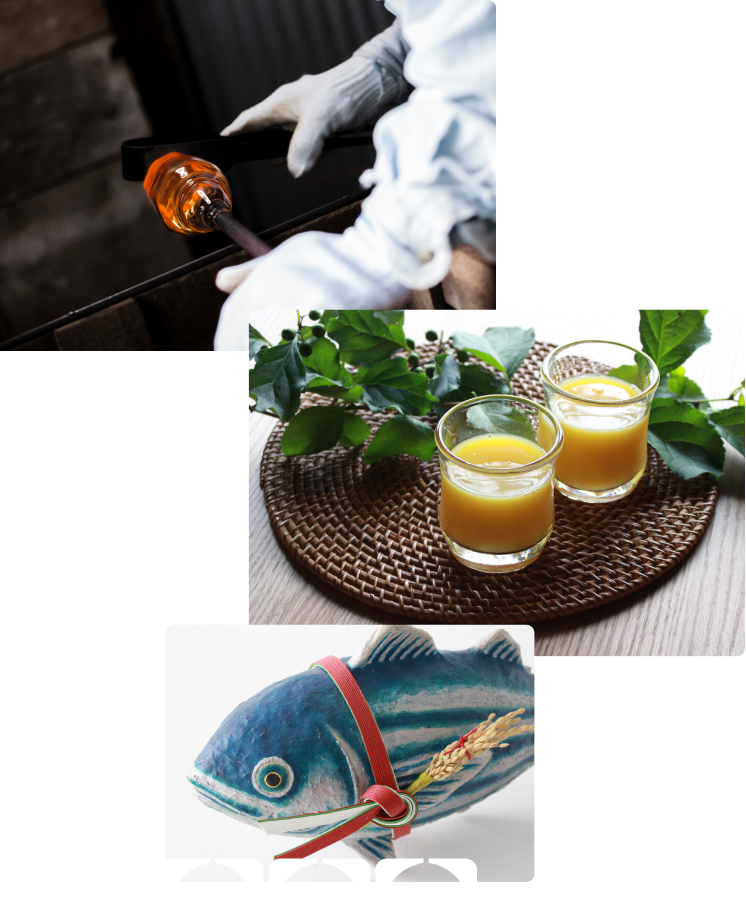
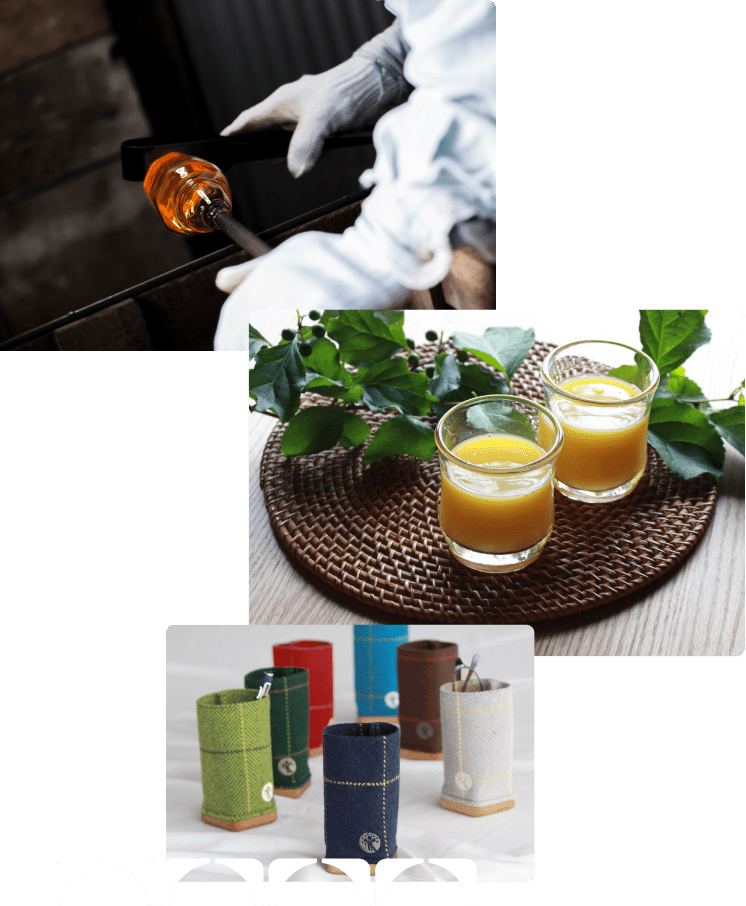
Update

Changed region(s): [[0.2158, 0.6799, 0.7399, 0.989]]

diff --git a/styles/scss/style.scss b/styles/scss/style.scss
@@ -827,6 +827,83 @@ a{
                 }
             }
         }
+        .box-hidacolle_note{
+            margin: 100px 0 0;
+            padding: 100px 0;
+            width: 100%;
+            background-color: c(nc,g2);
+            box-sizing: border-box;
+            .layout-hidacolle_note{
+                margin: 0 auto;
+                width: $mainWidth_sp;
+                .heading-hidacolle_note{
+                    margin: 0;
+                    width: 100%;
+                    .heading-title-inner{
+                        width: 100%;
+                        display: flex;
+                        flex-direction: column;
+                        align-items: center;
+                        .logos{
+                            .box__logomark{
+                                text-align: center;
+                                .logomark{
+                                    img{}
+                                }
+                                .line{
+                                    margin: 10px 0 0;
+                                    color: c(nc,b2);
+                                    @include fts(ja, bold);
+                                }
+                            }
+                            .logotype{
+                                margin: 20px 0 0;
+                                color: c(nc,b2);
+                                @include fts(ja, lead);
+                                font-family: 'Poppins';
+                                line-height: 125%;
+                                letter-spacing: 0.08em;
+                                text-align: center;
+                            }
+                        }
+                        .caption{
+                            margin: 20px 0 0;
+                            color: c(nc,b2);
+                            @include fts(ja, text);
+                            text-align: center;
+                        }
+                    }
+                }
+                .layout-button{
+                    margin: 50px auto 0;
+                    width: 90%;
+                }
+                .contents{
+                    margin: 50px 0 0;
+                    .notes-items{
+                        margin: 0 auto;
+                        width: 100%;
+                        display: flex;
+                        flex-direction: column;
+                        gap: 50px 0;
+                        .item{
+                            width: 100%;
+                            .thumbnail{
+                                img{
+                                    width: 100%;
+                                    height: auto;
+                                    border-radius: 8px;
+                                }
+                            }
+                            .title{
+                                margin: 20px 0 0;
+                                @include fts(ja, bold);
+                            }
+                        }
+                    }
+                }
+            }
+        }
     }
     .body-furniture_that_thinks{
         margin: 0 auto;
@@ -4088,7 +4165,7 @@ a{
                 }
             }
             .recruit-box-member{
-                margin: 100px auto;
+                margin: 100px auto 0;
                 padding: 50px 50px;
                 width: $ws;
                 border: 3px solid c(nc, b1);
@@ -4106,8 +4183,88 @@ a{
                 }
             }
         }
+        .box-hidacolle_note{
+            margin: 150px 0 0;
+            padding: 150px 0;
+            width: 100%;
+            background-color: c(nc,g2);
+            box-sizing: border-box;
+            .layout-hidacolle_note{
+                margin: 0 auto 0;
+                width: 1000px;
+                display: flex;
+                gap: 0 20px;
+                .heading-hidacolle_note{
+                    margin: 0;
+                    width: 320px;
+                    position: relative;
+                    top: 6px;
+                    left: -35px;
+                    .heading-title-inner{
+                        width: 320px;
+                        display: flex;
+                        flex-direction: column;
+                        align-items: center;
+                        .logos{
+                            .box__logomark{
+                                text-align: center;
+                                .logomark{
+                                    img{}
+                                }
+                                .line{
+                                    margin: 10px 0 0;
+                                    color: c(nc,b2);
+                                    @include fts(ja, bold);
+                                }
+                            }
+                            .logotype{
+                                margin: 20px 0 0;
+                                color: c(nc,b2);
+                                @include fts(ja, lead);
+                                font-family: 'Poppins';
+                                line-height: 125%;
+                                letter-spacing: 0.08em;
+                                text-align: center;
+                            }
+                        }
+                        .caption{
+                            margin: 20px 0 0;
+                            color: c(nc,b2);
+                            @include fts(ja, text);
+                            text-align: center;
+                        }
+                    }
+                }
+                .layout-button{
+                    margin: 75px auto 0;
+                    width: 280px;
+                }
+                .contents{
+                    .notes-items{
+                        margin: 0 auto;
+                        width: 660px;
+                        display: flex;
+                        flex-wrap: wrap;
+                        gap: 50px 20px;
+                        .item{
+                            width: 320px;
+                            .thumbnail{
+                                img{
+                                    width: 100%;
+                                    height: auto;
+                                    border-radius: 8px;
+                                }
+                            }
+                            .title{
+                                margin: 20px 0 0;
+                                @include fts(ja, bold);
+                            }
+                        }
+                    }
+                }
+            }
+        }
     }
-    
     .body-furniture_that_thinks{
         margin: 0 auto;
         width: $wl;

diff --git a/pages/index.tsx b/pages/index.tsx
@@ -10,26 +10,28 @@ import { OriginalProductsList } from 'components/OriginalProducts/OriginalProduc
 
 import data from 'list-original-prodacts.json'
 
+// Wordpress graphql
+import { getAllPosts } from "lib/wpapi";
 
+export async function getStaticProps(context) {
 
-export const getStaticProps = async () => {
+  const allPosts = await getAllPosts();
 
-  // const page_data = await wpClient.pages();
-
-  // console.log(page_data);
+  console.log("==============INDEX==============");
+  console.log(allPosts);
 
   return {
     props: {
-      // page_data
+      allPosts
     }
   };
-};
-
-type Props = {
-  // page_data: any;
 }
 
-const Home: NextPage<Props> = () => {
+type Props = {
+  allPosts: any;
+}
+
+const Home: NextPage<Props> = ({allPosts}) => {
 
     const postLists = data.postLists;
 
@@ -557,6 +559,62 @@ const Home: NextPage<Props> = () => {
                 <Link href='/contact' legacyBehavior><a className="button target_this_site">こちらからご連絡ください</a></Link>
               </div>
             </section>
+          </section>
+          <section className="box-hidacolle_note">
+            <div className="layout-hidacolle_note">
+              <div className="heading-hidacolle_note">
+                <div className="heading-title-inner">
+                  <div className="logos">
+                    <div className="box__logomark">
+                      <div className="logomark">
+                        <Image
+                          src="/mark-note.svg"
+                          alt="森から暮らしまで ヒダコレスタッフの家具にまつわる書きもの"
+                          width={64}
+                          height={34}
+                        />
+                      </div>
+                      <div className="line">ヒダコレノート</div>
+                    </div>
+                    <div className="logotype">HIDACOLLE <br className="pc_only" />NOTE</div>
+                  </div>
+                  <div className="caption">森から暮らしまで<br />ヒダコレスタッフの家具にまつわる書きもの</div>
+                </div>
+                <div className="layout-button">
+                  <Link href='/note' legacyBehavior><a className="button target_this_site">ヒダコレノートをよむ</a></Link>
+                </div>
+              </div>
+              <div className="contents">
+                <div className="notes-items">
+                  {allPosts.map((item) =>
+                    <Link
+                      key={item.slug}
+                      href={`/note/${item.slug}`}
+                      legacyBehavior
+                    >
+                      <a className="item">
+                        <div className="thumbnail add_corner">
+                          {item.eyecatch ? (
+                            <Image
+                              src={item.eyecatch.url}
+                              width={item.eyecatch.width}
+                              height={item.eyecatch.height}
+                              alt={item.eyecatch.altText}
+                            />
+                          ) : (
+                            // 代替のコンテンツを表示する場合
+                            // ヒダコレノートの基本サムネイル画像を設定しておく。
+                            <div>Alternative Content</div>
+                          )}
+                        </div>
+                        <h3 className="title">{item.title}</h3>
+                      </a>
+                    </Link>
+                  )}
+                </div>
+              </div>
+            </div>
+
           </section>
         </section>
       </>

diff --git a/components/Header/Header.tsx b/components/Header/Header.tsx
@@ -156,6 +156,19 @@ export const Header = memo(() => {
                 </Link>
               </div>
 
+              <div className={styles.block__banner}>
+                <Link href='/note' legacyBehavior>
+                  <a>
+                    <Image
+                      src="/images/note/top_banner.jpg"
+                      alt="ヒダコレノートへのリンクバナー"
+                      width={660}
+                      height={160}
+                    />
+                  </a>
+                </Link>
+              </div>
+
               <div className={styles.layout__Inquiry}>
                 <Inquiry />
               </div>

diff --git a/components/Header/Header.module.scss b/components/Header/Header.module.scss
@@ -136,6 +136,16 @@
             z-index: 1;
           }
         }
+        .block__banner{
+          margin: 75px auto 0;
+          width: 100%;
+          border-radius: 8px;
+          overflow: hidden;
+          img{
+            width: 100%;
+            height: auto;
+          }
+        }
         .layout__Inquiry{
           margin: 75px 0 0;
         }
@@ -262,6 +272,12 @@
             left: 0;
             z-index: 1;
           }
+        }
+        .block__banner{
+          margin: 0 auto 50px;
+          width: 660px;
+          border-radius: 8px;
+          overflow: hidden;
         }
       }
     }

diff --git a/components/Layout.tsx b/components/Layout.tsx
@@ -11,10 +11,9 @@ const Layout = ({ children }: Props) => {
     return (
         <div>
             <Head>
-                {/* <title>MyTemplate</title> */}
                 <meta name='viewport' content='width=device-width, initial-scale=1' />
             </Head>
-            
+
             <Header />
 
             <div className='content'>{children}</div>

diff --git a/pages/note/index.tsx b/pages/note/index.tsx
@@ -25,7 +25,6 @@ export async function getStaticProps(context) {
       allPosts
     }
   };
-
 }
 
 type Props = {
